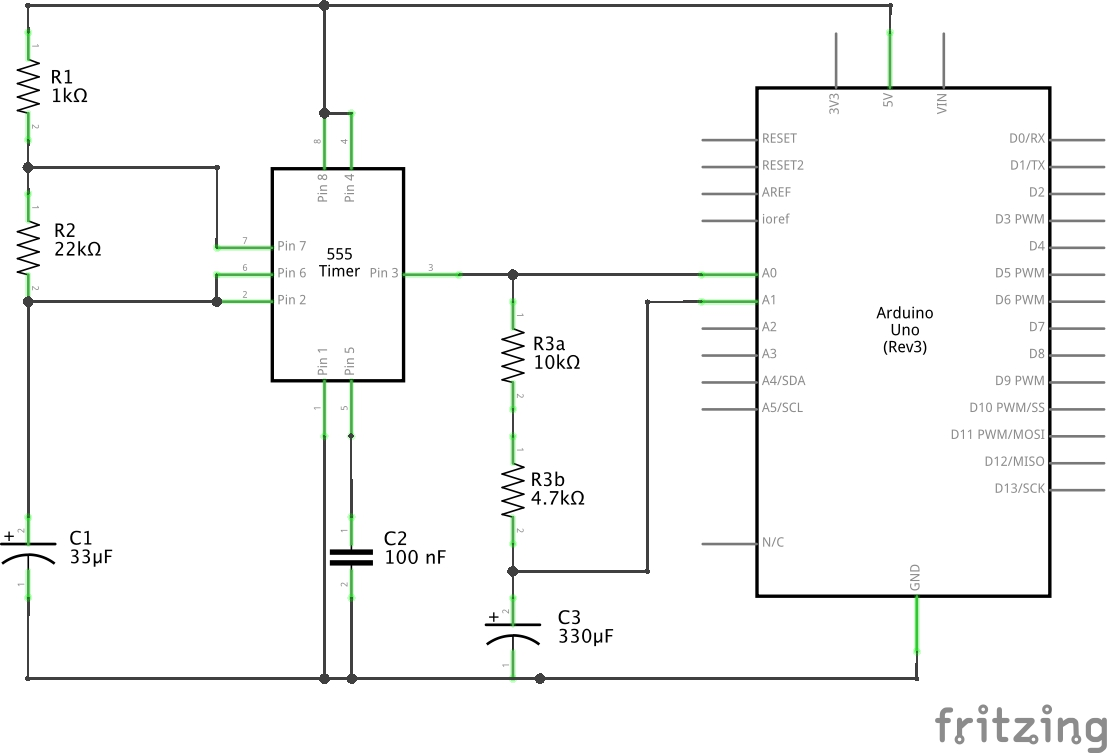
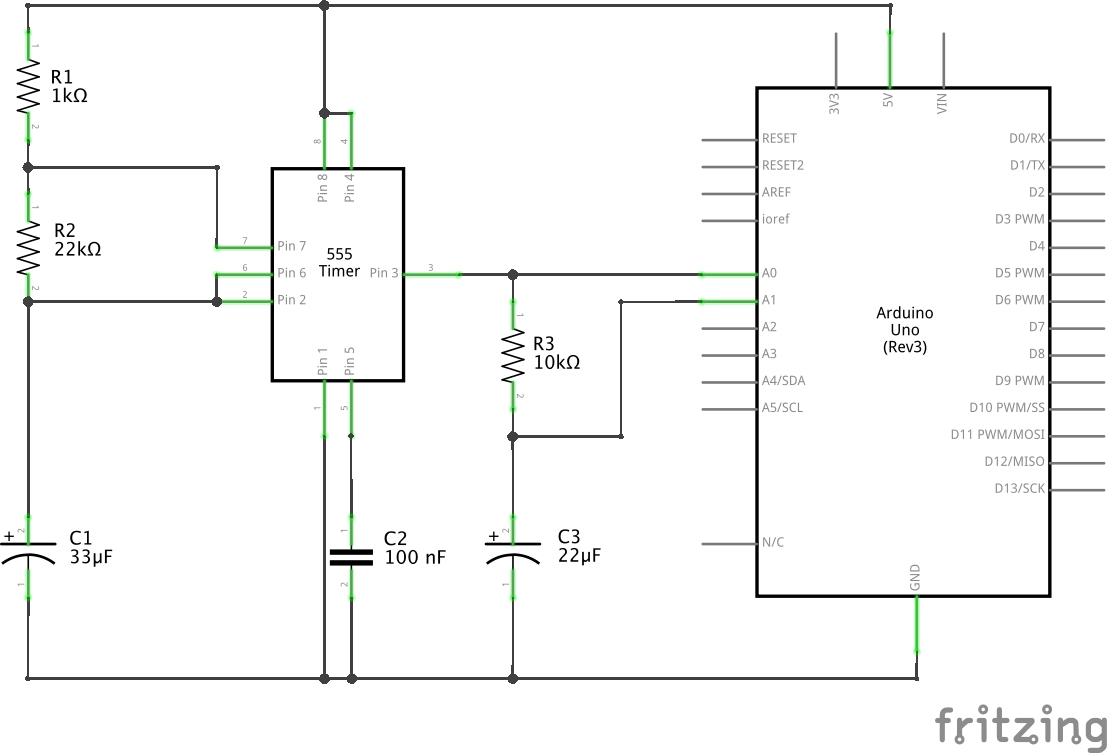
[555] alternative Triangle Wave Generator RC integrator values

Changed region(s): [[0.43, 0.5498, 0.5836, 0.9163], [0.5528, 0.3971, 0.5836, 0.4276]]

diff --git a/Electronics101/555Timer/TriangleWaveGen/README.md b/Electronics101/555Timer/TriangleWaveGen/README.md
@@ -30,19 +30,35 @@ The charge at time t is:
 
 So if we aim for a cycle time of about 5𝛕, that translates to 99.3% of full charge, and 91.8% at half cycle (2.5𝛕).
 
-Given 𝛕 = 1/rc, we therefore want the RC integrator to fit as follows:
+Given 𝛕 = rc, we therefore want the RC integrator to fit as follows:
 
-    5𝛕 = 5 /(R3 x C3) -> approaching 1029ms
+    5𝛕 = 5 x R3 x C3 -> approaching 1029ms
 
-Playing around with a few alternatives for R3 and C3, I've selected R3 = 14.7kΩ and C3 = 330uF:
+Playing around with a few alternatives for R3 and C3:
 
-    5 / (14.7kΩ x 330uF) = 1031ms
+    5 x 600Ω x 330uF = 990ms
+    5 x 10kΩ x 20uF = 1000ms
+    5 x 10kΩ x 22uF = 1100ms
+    5 x 4.7kΩ x 47uF = 1105ms
 
-Here's a sample trace of the resulting waveforms as measured by the Arduino.
+Here are sample traces of the resulting waveforms as measured by the Arduino with various values of 𝛕 for the RC integrator.
 The lower trace is the square wave at pin 3 of the 555 timer,
 the upper trace is the triangular wave at the output of the RC integrator:
 
-![processing trace](./assets/processing_trace.png?raw=true)
+#### 5 x 600Ω x 330uF = 990ms
+![processing trace](./assets/processing_trace_66x33.png?raw=true)
+
+#### 5 x 10kΩ x 20uF = 1000ms
+![processing trace](./assets/processing_trace_10x20.png?raw=true)
+
+#### 5 x 10kΩ x 22uF = 1100ms
+![processing trace](./assets/processing_trace_10x22.png?raw=true)
+
+#### 5 x 4.7kΩ x 47uF = 1105ms
+![processing trace](./assets/processing_trace_47x47.png?raw=true)
+
+#### 5 x 14.7kΩ x 330uF = 24255ms
+![processing trace](./assets/processing_trace_14700x330.png?raw=true)
 
 ### Construction
 
